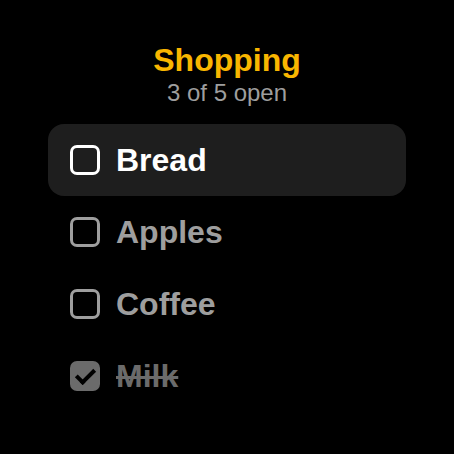
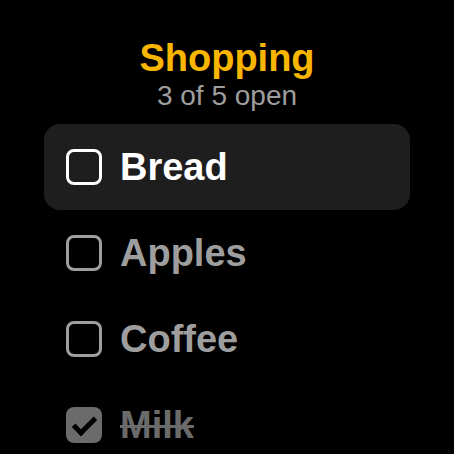
Yellow and Garmin blue, bigger lists, and forms that work again (1.0.8)
The mark is now half yellow, half Garmin blue (#007CC3), with the dark
tick: the launcher icon, the web's favicon, the store icon and cover.
The ring along the bezel is the same, blue on the right and yellow on
the left, and the countdown and the sync spinner run through blue first.
GKG is written GK yellow, G blue on the watch, the web and in the store
images. Other accents stay yellow.

The lists on the watch are 20 % bigger: items 38 px in 86 px rows with
36 px boxes, list names 43 px in 100 px rows, headers 38/28 px, notes
36 px. About four items show instead of five.

Fix: 1.0.7 sent Referrer-Policy: no-referrer, which makes browsers post
forms with Origin: null, so the Origin check refused every form, sign-in
included. It is same-origin now, and a test holds it there.

Store images redrawn to match (screens.py draws the watch screens).

Claude-Session: https://claude.ai/code/session_01RiHimt7BTzEwHQUQ2X7WXp

Changed region(s): [[0.0925, 0.2775, 0.9251, 0.8634], [0.3084, 0.0925, 0.7093, 0.2467], [0.1233, 0.8943, 0.4317, 0.9868]]

diff --git a/garmin/store/hero.html b/garmin/store/hero.html
@@ -6,7 +6,7 @@ body{margin:0;width:1440px;height:720px;background:#12110d;font-family:"Roboto C
 .hd b{display:block;color:#f9b600;font-size:36px}
 .hd span{color:#9e9e9e;font-size:26px}
 .rows{position:absolute;top:175px;left:75px;right:75px}
-.row{display:flex;align-items:center;gap:18px;height:64px;padding:0 22px;border-radius:16px;font-size:34px;font-weight:700;color:#9e9e9e}
+.row{display:flex;align-items:center;gap:18px;height:74px;padding:0 22px;border-radius:16px;font-size:40px;font-weight:700;color:#9e9e9e}
 .row.on{background:#1e1e1e;color:#fff}
 .box{width:30px;height:30px;border-radius:7px;border:3px solid #9e9e9e;box-sizing:border-box;flex:none}
 .on .box{border-color:#fff}
@@ -16,10 +16,11 @@ body{margin:0;width:1440px;height:720px;background:#12110d;font-family:"Roboto C
 .txt{margin-left:130px}
 .txt h1{font-size:120px;margin:0;line-height:1}
 .txt h1 i{font-style:normal;color:#f9b600}
+.txt h1 em{font-style:normal;color:#007cc3}
 .txt p{font-size:44px;margin:24px 0 0;color:#e9e4d4;line-height:1.25;font-weight:400}
 .txt small{display:block;margin-top:34px;font-size:28px;color:#8a846f}
 </style></head><body>
-<div class="watch"><div class="ring"></div>
+<div class="watch"><svg style="position:absolute;inset:0" width="520" height="520"><path d="M260 15a245 245 0 0 0 0 490" fill="none" stroke="#f9b600" stroke-width="10"/><path d="M260 15a245 245 0 0 1 0 490" fill="none" stroke="#007cc3" stroke-width="10"/></svg>
  <div class="hd"><b>Shopping</b><span>2 of 4 open</span></div>
  <div class="rows">
   <div class="row on"><div class="box"></div>Bread</div>
@@ -28,5 +29,5 @@ body{margin:0;width:1440px;height:720px;background:#12110d;font-family:"Roboto C
   <div class="row done"><div class="box"></div>Eggs</div>
  </div>
 </div>
-<div class="txt"><h1><i>GKG</i></h1><p>Your Google Keep lists<br>on the watch.<br>Tick them off from your wrist.</p><small>Pick the lists on your GKG server</small></div>
+<div class="txt"><h1><i>GK</i><em>G</em></h1><p>Your Google Keep lists<br>on the watch.<br>Tick them off from your wrist.</p><small>Pick the lists on your GKG server</small></div>
 </body></html>

diff --git a/app/static/app.css b/app/static/app.css
@@ -8,6 +8,8 @@
   --muted: #6f6a58;
   --faint: #a39d88;
   --accent: #f9b600;
+  --brand-y: #eaa900;
+  --brand-b: #007cc3;
   --accent-ink: #7a5800;
   --on-accent: #1f1c12;
   --ok: #1e7b45;
@@ -25,6 +27,8 @@
     --muted: #b2ab95;
     --faint: #7a7462;
     --accent: #ffc53d;
+    --brand-y: #f9b600;
+    --brand-b: #2f9be0;
     --accent-ink: #ffd978;
     --on-accent: #1a1606;
     --ok: #5fd08f;
@@ -53,6 +57,9 @@ p { margin: 0 0 0.8rem; }
   max-width: 760px; margin: 0 auto; padding: 1rem 16px 0.5rem;
 }
 .brand { display: flex; align-items: center; gap: 0.5rem; text-decoration: none; color: var(--ink); font-weight: 750; font-size: 1.15rem; }
+.brand .word b { font-weight: 800; }
+.brand .gk { color: var(--brand-y); }
+.brand .g { color: var(--brand-b); }
 .brand small { font-weight: 450; color: var(--muted); font-size: 0.85rem; }
 nav { display: flex; gap: 0.25rem; flex-wrap: wrap; }
 nav a { text-decoration: none; color: var(--muted); padding: 0.35rem 0.7rem; border-radius: 999px; font-weight: 550; }

diff --git a/app/templates/base.html b/app/templates/base.html
@@ -10,7 +10,7 @@
 </head>
 <body>
 <header class="top">
-  <a class="brand" href="/"><img src="/static/icon.svg" alt="" width="28" height="28"><span>GKG</span><small>Keep on Garmin</small></a>
+  <a class="brand" href="/"><img src="/static/icon.svg" alt="" width="28" height="28"><span class="word"><b class="gk">GK</b><b class="g">G</b></span><small>Keep on Garmin</small></a>
   {% if user %}
   <nav>
     <a href="/" {% if path == "/" %}aria-current="page"{% endif %}>Home</a>

diff --git a/garmin/store/screens.py b/garmin/store/screens.py
@@ -1,56 +1,87 @@
-from playwright.sync_api import sync_playwright
+"""The three store screens, 454x454, drawn after Items.mc, Lists.mc and Pair.mc. Run: python screens.py"""
+import math
 import pathlib
-d = pathlib.Path(".").resolve()
+
+from playwright.sync_api import sync_playwright
+
+d = pathlib.Path(__file__).resolve().parent
+Y, B = "#f9b600", "#007cc3"
 CSS = """
 body{margin:0;width:454px;height:454px;background:#000;font-family:"Roboto Condensed","Arial Narrow",Arial,sans-serif;color:#fff;overflow:hidden;position:relative}
-.ring{position:absolute;inset:1px;border-radius:50%;border:12px solid #f9b600}
-.ring.dim{border-color:#1e1e1e}
-.arc{position:absolute;inset:1px;border-radius:50%;border:12px solid transparent;border-top-color:#f9b600;border-right-color:#f9b600;transform:rotate(-45deg)}
+svg.ring{position:absolute;inset:0}
 .c{position:absolute;width:100%;text-align:center}
-.logo{position:absolute;left:50%;border-radius:50%;background:#f9b600;transform:translate(-50%,-50%)}
-.logo::after{content:"";position:absolute;left:36%;top:22%;width:22%;height:40%;border:solid #1f1c12;border-width:0 .6em .6em 0;transform:rotate(45deg)}
-.hd b{display:block;color:#f9b600;font-size:32px}
-.hd span{color:#9e9e9e;font-size:24px}
+.hd b{display:block;color:#f9b600;font-size:38px;line-height:44px}
+.hd span{color:#9e9e9e;font-size:28px}
+.gk{color:#f9b600}.g{color:#007cc3}
 .rows{position:absolute;left:0;right:0}
-.row{height:72px;display:flex;align-items:center;gap:16px;border-radius:16px;font-size:32px;font-weight:700;color:#9e9e9e;box-sizing:border-box;padding:0 22px}
+.row{height:86px;display:flex;align-items:center;gap:18px;border-radius:16px;font-size:38px;font-weight:700;color:#9e9e9e;box-sizing:border-box;padding:0 22px}
 .row.on{background:#1e1e1e;color:#fff}
-.box{width:30px;height:30px;border-radius:7px;border:3px solid #9e9e9e;box-sizing:border-box;flex:none;position:relative}
+.box{width:36px;height:36px;border-radius:8px;border:3px solid #9e9e9e;box-sizing:border-box;flex:none;position:relative}
 .on .box{border-color:#fff}
 .done{color:#6b6b6b;text-decoration:line-through}
 .done .box{background:#6b6b6b;border:0}
-.done .box::after{content:"";position:absolute;left:10px;top:4px;width:7px;height:15px;border:solid #000;border-width:0 4px 4px 0;transform:rotate(45deg)}
-.lrow{height:84px;border-radius:16px;text-align:center;box-sizing:border-box;padding-top:10px;position:relative}
+.done .box::after{content:"";position:absolute;left:12px;top:5px;width:8px;height:18px;border:solid #000;border-width:0 5px 5px 0;transform:rotate(45deg)}
+.lrow{height:100px;border-radius:16px;text-align:center;box-sizing:border-box;padding-top:10px;position:relative}
 .lrow.on{background:#1e1e1e}
-.lrow.on::before{content:"";position:absolute;left:0;top:16px;bottom:16px;width:6px;border-radius:3px;background:#f9b600}
-.lrow b{display:block;font-size:36px;color:#9e9e9e}
+.lrow.on::before{content:"";position:absolute;left:0;top:18px;bottom:18px;width:6px;border-radius:3px;background:#f9b600}
+.lrow b{display:block;font-size:43px;color:#9e9e9e;line-height:50px}
 .lrow.on b{color:#fff}
-.lrow span{font-size:24px;color:#6b6b6b;font-weight:700}
+.lrow span{font-size:28px;color:#6b6b6b;font-weight:700}
 .lrow.on span{color:#f9b600}
 """
+
+
+def arc(start, sweep, color, r=220, cx=227, w=12):
+    """Clockwise from `start` degrees (0 = 3 o'clock, 90 = top), as Gkg.arc draws it."""
+    if sweep <= 0:
+        return ""
+    a0, a1 = math.radians(start), math.radians(start - sweep)
+    p = lambda a: f"{cx + r * math.cos(a):.1f} {cx - r * math.sin(a):.1f}"
+    if sweep >= 359.9:
+        return f'<circle cx="{cx}" cy="{cx}" r="{r}" fill="none" stroke="{color}" stroke-width="{w}"/>'
+    return f'<path d="M{p(a0)} A{r} {r} 0 {1 if sweep > 180 else 0} 1 {p(a1)}" fill="none" stroke="{color}" stroke-width="{w}"/>'
+
+
+def brand_ring(frac, back=False):
+    deg = 360 * frac
+    out = arc(90, 360, "#1e1e1e") if back else ""
+    return f'<svg class="ring" width="454" height="454">{out}{arc(90, min(deg, 180), B)}{arc(270, deg - 180, Y)}</svg>'
+
+
+def logo(cx, cy, r):
+    return (f'<svg style="position:absolute;left:{cx - r}px;top:{cy - r}px" width="{2 * r}" height="{2 * r}" viewBox="0 0 64 64">'
+            f'<path d="M32 0a32 32 0 0 0 0 64z" fill="{Y}"/><path d="M32 0a32 32 0 0 1 0 64z" fill="{B}"/>'
+            '<path d="M17 33l10 10L48 22" fill="none" stroke="#1f1c12" stroke-width="7" stroke-linecap="round" stroke-linejoin="round"/></svg>')
+
+
 def row(t, done=False, on=False):
     return f'<div class="row {"done" if done else ""} {"on" if on else ""}"><div class="box"></div>{t}</div>'
+
+
 SCREENS = {
- "screen-1-items": f"""
-  <div class="c hd" style="top:42px"><b>Shopping</b><span>3 of 5 open</span></div>
-  <div class="rows" style="top:124px;left:48px;right:48px">{row("Bread",on=True)}{row("Apples")}{row("Coffee")}{row("Milk",done=True)}</div>""",
- "screen-2-lists": """
-  <div class="c hd" style="top:42px"><b>GKG</b><span>3 lists</span></div>
-  <div class="rows" style="top:124px;left:40px;right:40px">
+    "screen-1-items": f"""
+  <div class="c hd" style="top:36px"><b>Shopping</b><span>3 of 5 open</span></div>
+  <div class="rows" style="top:124px;left:44px;right:44px">{row("Bread", on=True)}{row("Apples")}{row("Coffee")}{row("Milk", done=True)}</div>""",
+    "screen-2-lists": """
+  <div class="c hd" style="top:36px"><b><span class="gk" style="font-size:38px;color:#f9b600">GK</span><span class="g" style="font-size:38px;color:#007cc3">G</span></b><span>3 lists</span></div>
+  <div class="rows" style="top:124px;left:36px;right:36px">
    <div class="lrow on"><b>Shopping</b><span>Pinned · 3 open</span></div>
-   <div class="lrow" style="margin:0 10px"><b>Hike gear</b><span>7 open</span></div>
-   <div class="lrow" style="margin:0 40px"><b>This week</b><span>All done</span></div></div>""",
- "screen-3-link": """
-  <div class="ring dim"></div><div class="arc"></div>
-  <div class="logo" style="top:80px;width:68px;height:68px;font-size:12px"></div>
+   <div class="lrow" style="margin:0 14px"><b>Hike gear</b><span>7 open</span></div>
+   <div class="lrow" style="margin:0 50px"><b>This week</b><span>All done</span></div></div>""",
+    "screen-3-link": f"""
+  {brand_ring(134 / 180, back=True)}
+  {logo(227, 80, 34)}
   <div class="c" style="top:132px;font-size:30px;font-weight:700">Link this watch</div>
   <div class="c" style="top:180px;font-size:88px;font-weight:700;letter-spacing:2px">482 913</div>
   <div class="c" style="top:288px;font-size:28px;font-weight:700;color:#9e9e9e">gkg.example.com › Home</div>
   <div class="c" style="top:328px;font-size:28px;font-weight:700;color:#6b6b6b">2:14</div>""",
 }
-with sync_playwright() as p:
-    b = p.chromium.launch()
-    for name, body in SCREENS.items():
-        pg = b.new_page(viewport={"width": 454, "height": 454})
-        pg.set_content(f"<html><head><style>{CSS}</style></head><body>{body}</body></html>")
-        pg.screenshot(path=str(d / f"{name}.png"))
-    b.close()
+
+if __name__ == "__main__":
+    with sync_playwright() as p:
+        b = p.chromium.launch()
+        for name, body in SCREENS.items():
+            pg = b.new_page(viewport={"width": 454, "height": 454})
+            pg.set_content(f"<html><head><style>{CSS}</style></head><body>{body}</body></html>")
+            pg.screenshot(path=str(d / f"{name}.png"))
+        b.close()

diff --git a/tests/test_app.py b/tests/test_app.py
@@ -181,6 +181,8 @@ def test_security_headers_and_body_limit(env):
     r = c.get("/login")
     assert r.headers["x-frame-options"] == "DENY" and "frame-ancestors 'none'" in r.headers["content-security-policy"]
     assert r.headers["x-content-type-options"] == "nosniff"
+    # no-referrer would make browsers post forms with Origin: null, which the Origin check refuses.
+    assert r.headers["referrer-policy"] == "same-origin"
     big = c.post("/api/watch/status", content=b"{" + b" " * (70 * 1024) + b"}", headers={"content-type": "application/json"})
     assert big.status_code == 413
 

diff --git a/app/main.py b/app/main.py
@@ -57,7 +57,9 @@ HEADERS = {
                                "object-src 'none'; base-uri 'none'; form-action 'self'; frame-ancestors 'none'",
     "X-Frame-Options": "DENY",
     "X-Content-Type-Options": "nosniff",
-    "Referrer-Policy": "no-referrer",
+    # same-origin, not no-referrer: with no-referrer a browser posts forms with Origin: null,
+    # and the Origin check (same_origin) would refuse every one of them.
+    "Referrer-Policy": "same-origin",
 }
 
 

diff --git a/README.md b/README.md
@@ -124,7 +124,7 @@ to the server through the phone; without the phone they wait on the watch. More 
   token only to the server it was linked with, and only over https.
 - **Web**: every form post must carry this site's Origin (or Referer); responses carry a
   strict Content-Security-Policy (no scripts), `X-Frame-Options: DENY`, `nosniff` and
-  `no-referrer`. Request bodies over 64 KB are refused. `/api/health` says nothing about
+  `Referrer-Policy: same-origin`. Request bodies over 64 KB are refused. `/api/health` says nothing about
   data.
 
 ## The watch API
